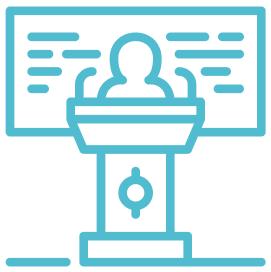
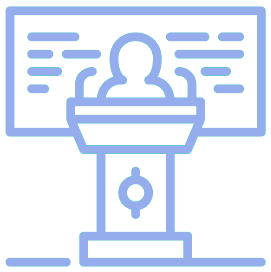
Expandable card in INDEX - spaghetti JS

Changed region(s): [[0.0, 0.0, 1.0, 1.0], [0.4428, 0.6176, 0.5609, 0.8235], [0.0, 0.9412, 0.2657, 1.0]]

diff --git a/app/assets/stylesheets/lessons/_index.scss b/app/assets/stylesheets/lessons/_index.scss
@@ -39,6 +39,7 @@
   color: $flexi;
   min-height: 20vh;
   margin: -2% -4% !important;
+  padding:2%;
 }
 
 .info {
@@ -46,8 +47,8 @@
   flex-direction: column;
   align-items: center;
   justify-content: space-between;
-//  font-size: .8em;
-  padding: 1%;
+  font-size: .8em;
+  padding: 2%;
   letter-spacing: 0 !important;
 
   #status {
@@ -60,9 +61,13 @@
   #day-week {
     font-weight: bold;
   }
+  #tutor-name {
+    font-weight: bold;
+    letter-spacing: 2px;
+  }
   #tutor-icon {
     img {
-      height: 7vh;
+      height: 8vh;
     }
   }
 }
@@ -111,5 +116,29 @@
 @-webkit-keyframes preloader8 {
    0% {-webkit-transform: scale(0, 0);opacity:0.5;}
    100% {-webkit-transform: scale(1, 1);opacity:0;}
+}
+///////////////////////////////////////
+// CARD COLLAPSE///////////////////////
+.my-card{
+  transition-timing-function: ease-out;
+  overflow: hidden;
+}
+.my-expand{
+  transition: transform 300ms;
+  transition-timing-function: ease-in-out;
+}
+.flipped{
+  transform: rotate(180deg);
+}
+.big{
+  height: 400px;
+}
+.my-content{
+  margin: 5% -4%;
+  background: #fff;
+  transition: opacity 200ms;
+}
+.my-hidden{
+  opacity: 0;
 }
 ///////////////////////////////////////

diff --git a/app/assets/stylesheets/application.scss b/app/assets/stylesheets/application.scss
@@ -21,7 +21,7 @@
 
 // TEST backend ////////////////////////////////////////////////
 body {
-  min-height:100vh;
+  min-height:80vh;
   position:relative;
   background: #fafafa;
   word-wrap: break-word;

diff --git a/app/assets/stylesheets/config/_colors.scss b/app/assets/stylesheets/config/_colors.scss
@@ -9,5 +9,5 @@ $green: #32B796;
 $gray: #000000;
 $light-gray: #F4F4F4;
 
-//$flexi: #95ADEC;
-$flexi: #61BCD1;
+//$flexi: #61BCD1;
+$flexi: #95ADEC;
